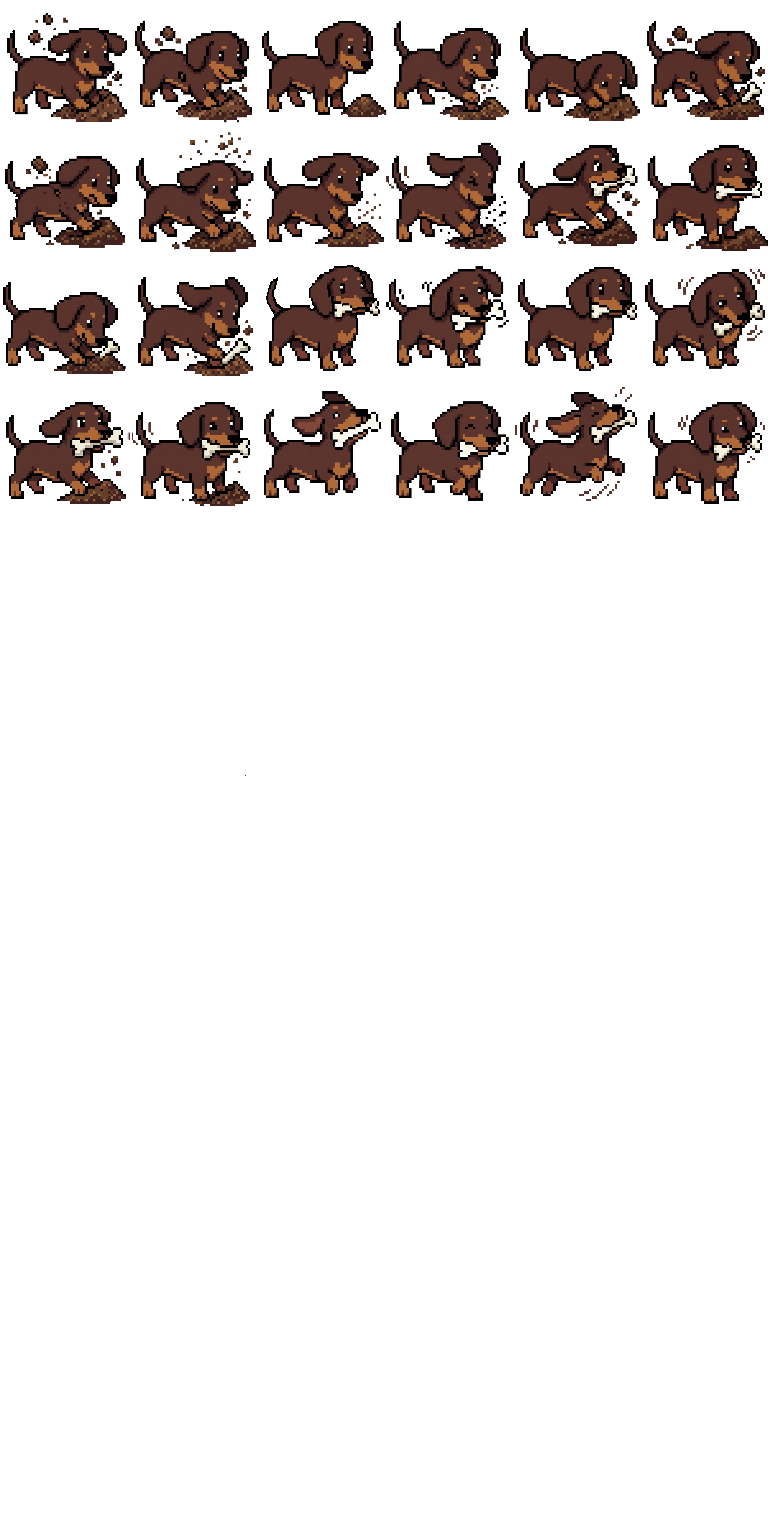
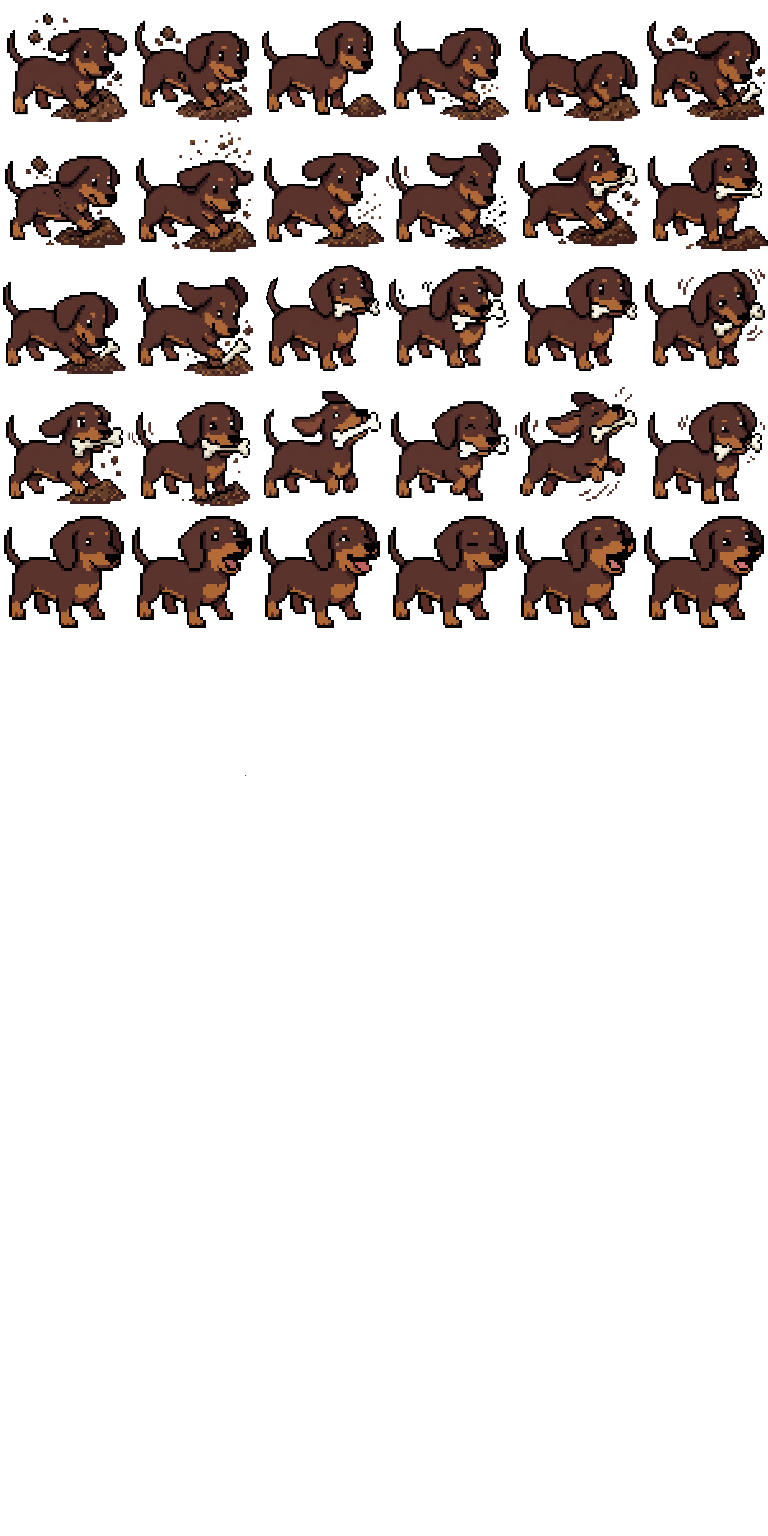
Szczekanie: 6 klatek w arkuszu 03 (stały tułów, zmienia się głowa), 3 animacje, dźwięki; sam z siebie, przy dymkach i po dotknięciu (v0.8.211)
Claude-Session: https://claude.ai/code/session_01DmG86c44joacZAMCmjTN85

Changed region(s): [[0.0, 0.3125, 1.0, 0.4062]]

diff --git a/index.html b/index.html
@@ -3,12 +3,12 @@
     <head>
         <meta charset="utf-8" />
         <meta name="viewport" content="width=device-width,initial-scale=1,viewport-fit=cover" />
-        <title>Łatka v0.8.210</title>
+        <title>Łatka v0.8.211</title>
         <!-- Czcionki gry: Baloo 2 (tytuły, przyciski, liczby) + Quicksand (teksty). Gdy brak sieci — czcionka systemowa. -->
         <link rel="preconnect" href="https://fonts.googleapis.com" />
         <link rel="preconnect" href="https://fonts.gstatic.com" crossorigin />
         <link rel="stylesheet" href="https://fonts.googleapis.com/css2?family=Baloo+2:wght@500;600;700;800&family=Quicksand:wght@500;600;700&display=swap" />
-        <link rel="stylesheet" href="css/style.css?v=229" />
+        <link rel="stylesheet" href="css/style.css?v=230" />
     </head>
 
     <body>
@@ -418,7 +418,7 @@
                     </div>
                 </div>
             </div>
-            <script src="js/loader.js?v=229"></script>
+            <script src="js/loader.js?v=230"></script>
             <script>
                 // canvas rysuje tekst dopiero, gdy czcionka jest wczytana — poproś o nią od razu
                 try {
@@ -426,7 +426,7 @@
                     document.fonts.load("700 16px Quicksand");
                 } catch (_) {}
             </script>
-            <script src="js/audio.js?v=229"></script>
+            <script src="js/audio.js?v=230"></script>
             <div class="parentLock" hidden>
                 <div class="plCard">
                     <canvas class="plDog" width="240" height="150" aria-hidden="true"></canvas>
@@ -469,20 +469,20 @@
             </div>
         </div>
 
-        <script defer src="js/arc-carousel.js?v=229"></script>
-        <script defer src="js/game.js?v=229"></script>
-        <script defer src="js/session.js?v=229"></script>
-        <script defer src="js/minigame-fetch.js?v=229"></script>
-        <script defer src="js/minigame-bubbles.js?v=229"></script>
-        <script defer src="js/minigame-mole.js?v=229"></script>
-        <script defer src="js/minigame-hedge.js?v=229"></script>
-        <script defer src="js/minigame-mole2.js?v=229"></script>
-        <script defer src="js/minigame-memory.js?v=229"></script>
-        <script defer src="js/minigame-pairs.js?v=229"></script>
-        <script defer src="js/minigame-bones.js?v=229"></script>
-        <script defer src="js/event-bone-mole.js?v=229"></script>
-        <script defer src="js/event-bone-dig.js?v=229"></script>
-        <script defer src="js/games-menu.js?v=229"></script>
-        <script defer src="js/popup-guard.js?v=229"></script>
+        <script defer src="js/arc-carousel.js?v=230"></script>
+        <script defer src="js/game.js?v=230"></script>
+        <script defer src="js/session.js?v=230"></script>
+        <script defer src="js/minigame-fetch.js?v=230"></script>
+        <script defer src="js/minigame-bubbles.js?v=230"></script>
+        <script defer src="js/minigame-mole.js?v=230"></script>
+        <script defer src="js/minigame-hedge.js?v=230"></script>
+        <script defer src="js/minigame-mole2.js?v=230"></script>
+        <script defer src="js/minigame-memory.js?v=230"></script>
+        <script defer src="js/minigame-pairs.js?v=230"></script>
+        <script defer src="js/minigame-bones.js?v=230"></script>
+        <script defer src="js/event-bone-mole.js?v=230"></script>
+        <script defer src="js/event-bone-dig.js?v=230"></script>
+        <script defer src="js/games-menu.js?v=230"></script>
+        <script defer src="js/popup-guard.js?v=230"></script>
     </body>
 </html>

diff --git a/js/game.js b/js/game.js
@@ -338,12 +338,14 @@ let lastWish = "";
 // Dymek musi mieć sens: potrzeba w dymku tylko wtedy, gdy naprawdę spada
 // (żółta, < 40%) — wtedy piesek częściej „mówi”, czego mu brakuje. Kąpiel
 // (bańki) tylko gdy czystość < 50%, piłka tylko gdy zabawa < 75%.
+let lowNeedWish = null; // potrzeba pokazana w ostatnim dymku (piesek o nią prosi)
 const WISH_NEED_AT = 40,
     NEED_WISH_ICON = { food: "food", water: "water", fun: "fun", sleep: "sleep", clean: "bubbles" };
 function bubbleWish() {
     let low = null;
     for (const k of ["food", "water", "fun", "sleep", "clean"]) if (stats[k] < WISH_NEED_AT && (!low || stats[k] < stats[low])) low = k;
-    if (low && Math.random() < 0.6) return (lastWish = NEED_WISH_ICON[low]);
+    lowNeedWish = null;
+    if (low && Math.random() < 0.6) return (lowNeedWish = low), (lastWish = NEED_WISH_ICON[low]);
     const ctx = [];
     if (butterfly?.free && !butterfly.lure && butterfly.plan) ctx.push("butterfly");
     if (moleTeaser || moleDirts[room]) ctx.push("mole");
@@ -393,6 +395,8 @@ function bubbleThink() {
         const wish = bubbleWish();
         say(wish, R.showMs);
         if (wish === "bone" && typeof boneWishStart === "function") boneWishStart(); // „chcę kopać” — biegnie do ogrodu
+        else if (wish === "bark") bark("hau", 2); // „hau, hau!”
+        else if (NEED_WISH_ICON[lowNeedWish] === wish) bark("soft"); // grzecznie prosi o to, czego mu brakuje
     }
 }
 
@@ -1304,10 +1308,43 @@ function react() {
     if (sadBlocks("pet")) return sadRefuse();
     interrupt();
     wake();
+    say("heart");
+    if (Math.random() < 0.35 && bark("happy")) return; // czasem wesoło szczeka
     phase = "reaction";
     locks();
-    say("heart");
     startQueue([repeatPart("a01", [10, 12, 7, 15][Math.floor(Math.random() * 4)])]);
+}
+
+// ── Szczekanie (a03 „07. Szczeknięcie”, „08. Wesołe hau”, „09. Grzeczne hau”) ──
+// Dźwięk pada na klatce, w której pysk się otwiera. Podwójne „hau, hau” = dwa
+// krótkie szczeknięcia pod rząd. Piesek szczeka sam z siebie (dymek
+// „szczekanie”, czasem przy samodzielnym zachowaniu), grzecznie prosi, gdy
+// czegoś mu brakuje (dymek z potrzebą), i wesoło po dotknięciu.
+const BARK = { hau: [6, "bark"], happy: [7, "barkHappy"], soft: [8, "barkSoft"] },
+    BARK_CLOSED = 25;
+function barkParts(kind, times = 1) {
+    const [anim, snd] = BARK[kind],
+        pre = CFG.a03.presets[anim],
+        seq = numbers(pre.seq),
+        opens = seq.map((f, i) => (f !== BARK_CLOSED && (i === 0 || seq[i - 1] === BARK_CLOSED) ? i : -1)).filter((i) => i >= 0),
+        parts = [];
+    for (let t = 0; t < times; t++)
+        parts.push({
+            sheet: "a03",
+            anim,
+            time: seq.length * pre.ms,
+            onStart: () => opens.forEach((i) => setTimeout(() => phase === "bark" && sfx(snd), i * pre.ms)),
+        });
+    return parts;
+}
+function bark(kind = "hau", times = 1) {
+    if (!casual() || sleeping || sadNeed() || dogHidden) return false;
+    interrupt();
+    phase = "bark";
+    stage = "bark-" + kind;
+    locks();
+    startQueue(barkParts(kind, times));
+    return true;
 }
 
 function startPetting() {
@@ -2202,6 +2239,7 @@ function localWalk() {
 
 function autonomous() {
     const r = Math.random();
+    if (r < 0.05 && bark("hau", Math.random() < 0.5 ? 2 : 1)) return; // czasem szczeknie sam z siebie
     if (r < 0.55) localWalk();
     else if (r < 0.72) {
         phase = "pause";

diff --git a/js/audio.js b/js/audio.js
@@ -81,6 +81,30 @@
         s.start(t0);
     }
 
+    // Szczeknięcie: piłokształtna fala z opadającym tonem przez filtr pasmowy
+    // („pysk”) + krótkie chuchnięcie szumu na początku. Mały piesek = wyżej.
+    function woof(t0, { f0 = 640, f1 = 330, dur = 0.15, vol = 0.34, form = 1000, q = 1.4 } = {}) {
+        const o = ctx.createOscillator(),
+            f = ctx.createBiquadFilter(),
+            g = ctx.createGain();
+        o.type = "sawtooth";
+        o.frequency.setValueAtTime(f0, t0);
+        o.frequency.exponentialRampToValueAtTime(f1, t0 + dur);
+        f.type = "bandpass";
+        f.frequency.setValueAtTime(form * 1.3, t0);
+        f.frequency.exponentialRampToValueAtTime(form * 0.7, t0 + dur);
+        f.Q.value = q;
+        g.gain.setValueAtTime(0.0001, t0);
+        g.gain.linearRampToValueAtTime(vol, t0 + 0.012);
+        g.gain.exponentialRampToValueAtTime(0.0001, t0 + dur);
+        o.connect(f);
+        f.connect(g);
+        g.connect(master);
+        o.start(t0);
+        o.stop(t0 + dur + 0.03);
+        noise(t0, 0.04, { vol: vol * 0.35, freq: 1800 });
+    }
+
     const N = { C4: 262, D4: 294, E4: 330, F4: 349, G4: 392, A4: 440, B4: 494, C5: 523, D5: 587, E5: 659, G5: 784, C6: 1047 };
 
     // nazwa → [minimalny odstęp ms, funkcja(parametr)]
@@ -143,6 +167,10 @@
                 tone(t + o, f, 0.18, { type: "triangle", vol: 0.12, slideTo: f * 0.93 });
             noise(t + 0.18, 0.2, { vol: 0.1, freq: 6500 });
         }],
+        // szczekanie (a03 „07–09”): zwykłe „hau”, wesołe (wyżej, krócej), grzeczne (ciche)
+        bark: [140, () => woof(ctx.currentTime, { f0: 640, f1: 330, dur: 0.15, vol: 0.34 })],
+        barkHappy: [140, () => woof(ctx.currentTime, { f0: 780, f1: 430, dur: 0.12, vol: 0.3, form: 1150 })],
+        barkSoft: [140, () => woof(ctx.currentTime, { f0: 860, f1: 560, dur: 0.1, vol: 0.17, form: 1300, q: 1.8 })],
         // kupka / sprzątanie — "szur"
         wipe: [150, () => noise(ctx.currentTime, 0.2, { vol: 0.1, freq: 2500 })],
     };

diff --git a/REGULY.md b/REGULY.md
@@ -264,3 +264,9 @@ Przy 10% i niżej piesek jest smutny (patrz pkt 1).
 - Zdarzenia w ogrodzie wracają szybciej: motylek po 8–20 s (było 12,5–30), jeżyk 8–18 s (było 12–27), kret 6–15 s (było 7,5–22,5). Kret z kostką i kopanie: pierwsze 30–90 s / 45–110 s po wejściu do pokoju, kolejne po 2–3 min; wspólny odstęp z kostkami 1,5–2,5 min (po starcie 1,5–2 min).
 - Dymki z chęciami mają sens: gdy któraś potrzeba spada poniżej 40% (żółta), w 60% dymków piesek pokazuje tę najniższą (jedzenie, woda, piłka, sen, kąpiel). Kąpiel (bańki) pojawia się tylko przy czystości < 50%, piłka tylko przy zabawie < 75%.
 - Przy samej ścianie (głowa < 84 px od krawędzi) dymek się nie pojawia — czeka, aż piesek odejdzie (przy krawędzi dymek przygasa).
+
+## 31. Szczekanie (v0.8.211)
+- Klatki: arkusz 03, klatki 25–30 (z grafik użytkownika: przeniesione na ich siatkę pikseli 10,24 px, ok. 44×41, i przeskalowane ×2,73 do wielkości stojącego pieska; ustawione jak a01 63 — lewy brzeg x=4, stopy y=116). Tułów i nogi zawsze z jednej klatki (F4), z pozostałych tylko głowa — nic nie drga. 25 = zamknięty pysk, 26 = „hau”, 27 = wesołe (pysk otwarty), 28 = uśmiech z zamkniętymi oczami, 29 = mrugnięcie, 30 = mały pysk (grzeczne). Punkty łap w `szkielet.json` (a03, klatki 25–30) — brud na łapkach działa.
+- Animacje (a03): „07. Szczeknięcie »Hau!«” (25,25,26,25,25; 150 ms), „08. Wesołe hau” (130 ms), „09. Grzeczne hau — prośba” (140 ms). Podwójne „hau, hau” = dwa razy „07” pod rząd.
+- Dźwięki (`audio.js`, synteza): `bark` (zwykłe), `barkHappy` (wyżej, krócej), `barkSoft` (ciche). Grają na klatce, w której pysk się otwiera (`barkParts`).
+- Kiedy: dymek „szczekanie” → „hau, hau”; dymek z potrzebą (< 40%) → grzeczne hau (prośba); dotknięcie pieska → w 35% wesołe hau zamiast zwykłej reakcji; samo z siebie ok. 5% samodzielnych zachowań → „hau” lub „hau, hau”. Nie szczeka śpiący, smutny ani schowany (`bark()`).
